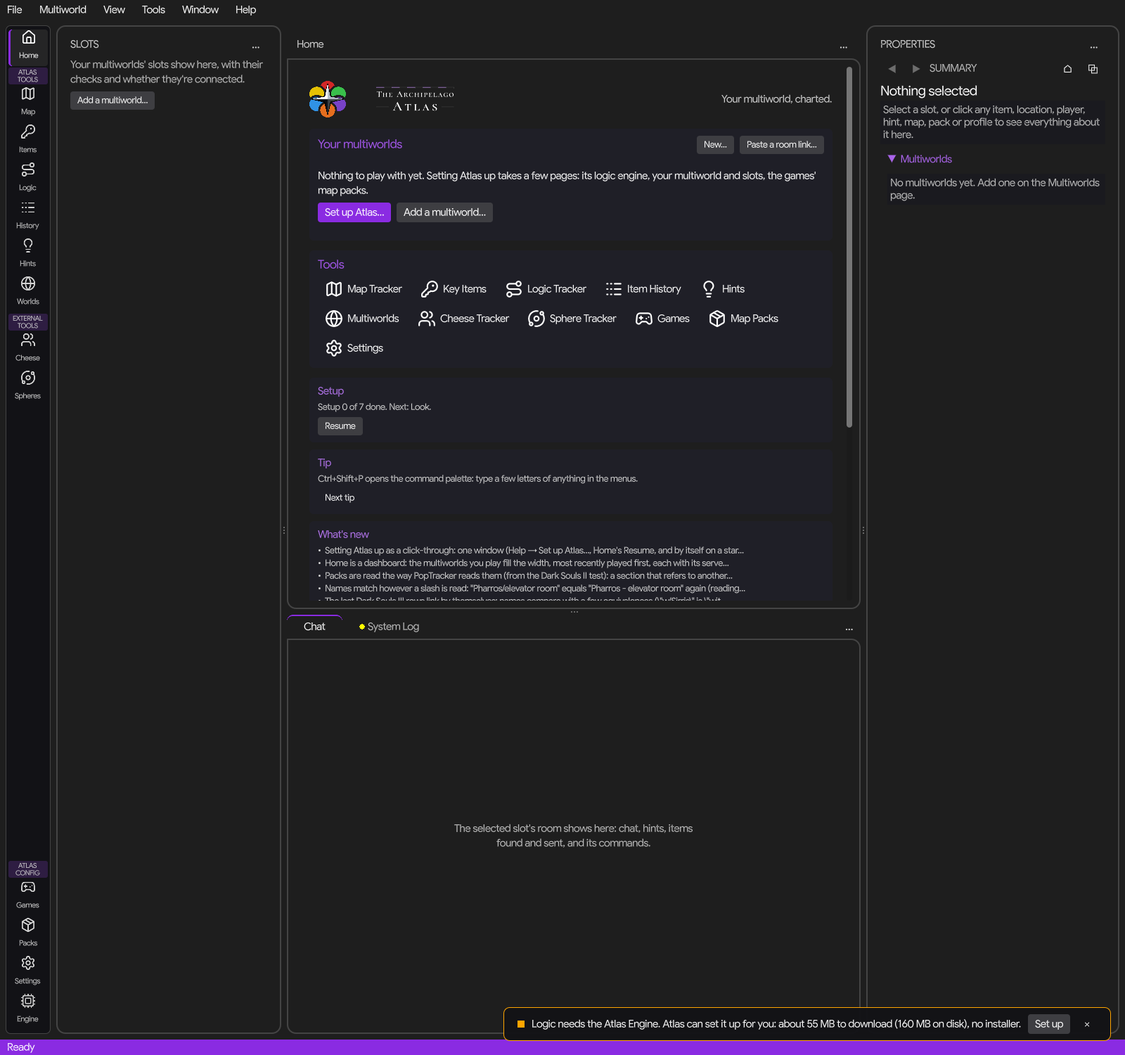
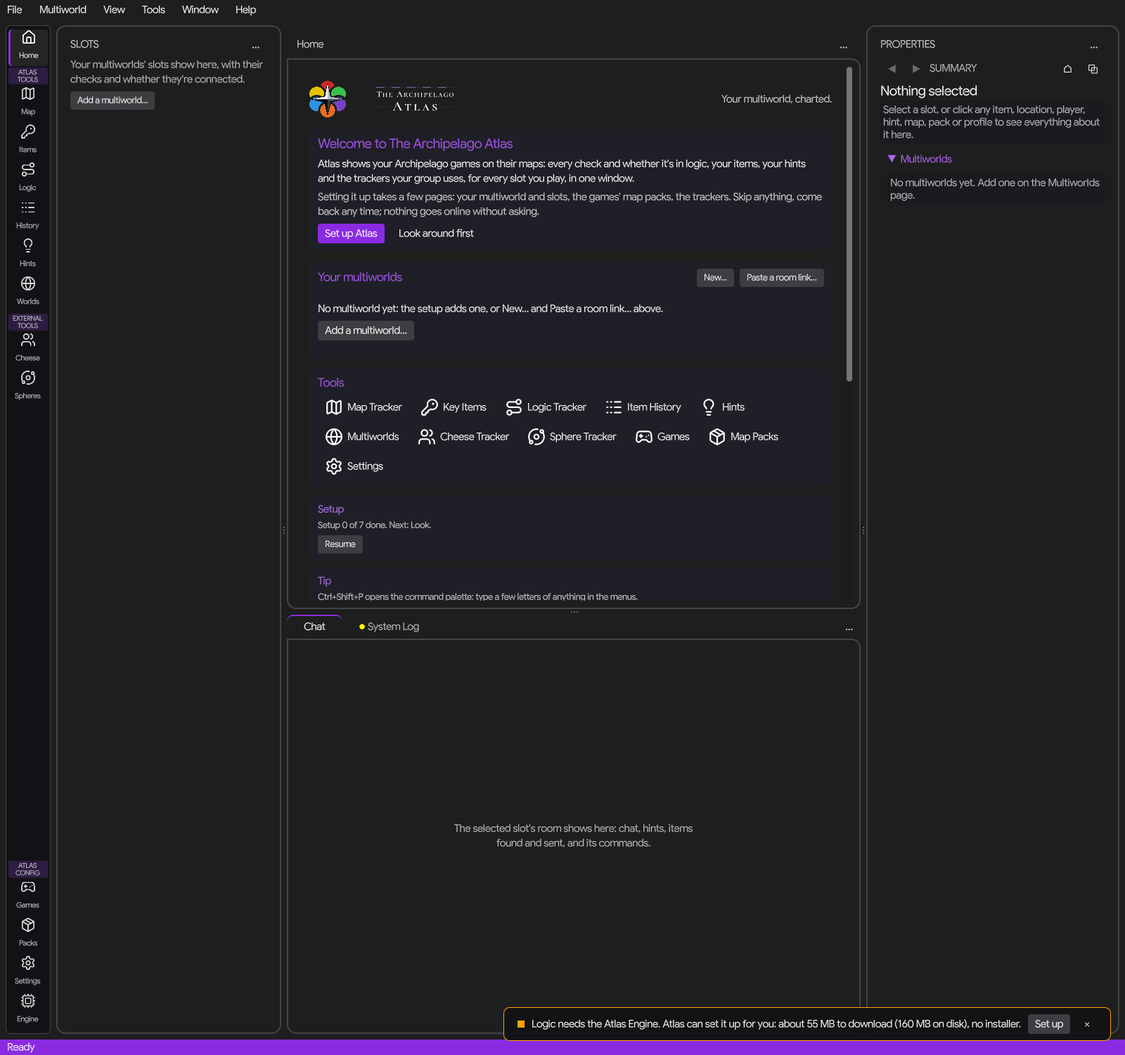
Home greets a first start; the setup opens when asked
The owner on the beta from 1a30514: Atlas opened with the setup
window covering the whole window, on its Look page; it didn't feel
welcoming. Their answers: Home greets, the setup on a press; a first
start begins on Welcome.

- Nothing pops up at startup: the setup window no longer opens by
  itself (ShouldOpenSetupAtStartup, AppSettings.SetupWizardAuto and
  the Welcome page's "Don't open this by itself again" are gone).
- Home's welcome card, across the top while the setup isn't finished:
  what Atlas does, how the setup goes, Set up Atlas and Look around
  first (puts the card away, AppSettings.WelcomeDismissed; the setup
  line keeps Resume). The multiworlds card offers Add a multiworld…,
  and Set up Atlas… once the welcome card is away.
- The setup window begins on Welcome while nothing is set up
  (SetupSteps.Untouched: no page passed, none skipped), else at the
  first step left.
- UI scenarios "Home" (the card, no window by itself, Look around
  first) and "Setup window" (Resume on a fresh folder begins on
  Welcome); Home's pictures and README's screenshot re-taken.

diff --git a/AP_Atlas_Source/Scripts/MainTrackerWindow.UiTest.cs b/AP_Atlas_Source/Scripts/MainTrackerWindow.UiTest.cs
@@ -1561,21 +1561,29 @@ public partial class MainTrackerWindow
         UiTestExpect(noBlurb.Count == 0, $"tools without a line: {string.Join(", ", noBlurb)}");
         UiTestExpect(home.Links.Count > 0 && home.Links.All(l => l.Url.StartsWith("https://", StringComparison.Ordinal)) && home.Links.Any(l => l.Url == "https://discord.gg/8Z65BR2"),
             "a link isn't https, or the Discord one is missing");
-        // A first start: no multiworlds, so the card shows the "Set up Atlas" block with its two buttons, and the setup line counts
-        // nothing done (the engine's step follows the engine) with Resume beside it.
+        // A first start: Home greets it with the welcome card (nothing pops up), the multiworlds card offers Add a multiworld…,
+        // and the setup line counts nothing done (the engine's step follows the engine) with Resume beside it.
         var steps = SetupSteps;
-        UiTestExpect(home.RecentProfileIds.Count == 0 && home.SetUpButton != null && home.AddMultiworldButton != null, "a first start doesn't show the Set up Atlas block");
+        UiTestExpect(home.WelcomeShown && home.WelcomeSetUpButton.Visible && home.RecentProfileIds.Count == 0 && home.SetUpButton == null && home.AddMultiworldButton != null,
+            "a first start isn't greeted by the welcome card, or the setup's button shows twice");
+        UiTestExpect(!GetChildren().OfType<AP_Atlas.UI.SetupWizard>().Any(w => !w.IsQueuedForDeletion()), "the setup window opened by itself");
         UiTestExpect(steps.Done(AP_Atlas.UI.SetupSteps.Engine) == AP_Atlas.Core.EngineSetup.AtlasEngine.Current.CanLaunch
             && AP_Atlas.UI.SetupSteps.All.Where(s => s != AP_Atlas.UI.SetupSteps.Engine).All(s => !steps.Done(s) && !steps.Skipped(s)),
             $"steps done before anything happened: {string.Join(", ", AP_Atlas.UI.SetupSteps.All.Where(steps.Settled).Select(s => s.Id))}");
         UiTestExpect(home.SetupLine.StartsWith("Setup ", StringComparison.Ordinal) && home.SetupLine.Contains($" of {steps.Total} done") && home.ResumeButton.Visible, $"the setup line reads \"{home.SetupLine}\"");
-        // Set up Atlas… opens the setup window from its Welcome page, on Home; closing it leaves Home as it was.
-        home.SetUpButton!.EmitSignal(BaseButton.SignalName.Pressed);
+        // Set up Atlas opens the setup window on its Welcome page while nothing is set up, on Home; closing it leaves Home as it was.
+        home.WelcomeSetUpButton.EmitSignal(BaseButton.SignalName.Pressed);
         var wizard = await UiTestWaitForAsync(() => GetChildren().OfType<AP_Atlas.UI.SetupWizard>().FirstOrDefault(w => w.Visible && !w.IsQueuedForDeletion()), "the setup window from Home");
         UiTestExpect(wizard.CurrentPageId == "welcome" && ShownContent() == home, $"Set up Atlas… opened the window on {wizard.CurrentPageId}, or left Home");
         wizard.EmitSignal(Window.SignalName.CloseRequested);
         await UiTestWaitAsync(0.2);
         UiTestExpect(!IsInstanceValid(wizard) || wizard.IsQueuedForDeletion(), "closing the setup window didn't free it");
+        // Look around first puts the welcome card away (remembered); the multiworlds card offers Set up Atlas… then.
+        home.LookAroundButton.EmitSignal(BaseButton.SignalName.Pressed);
+        UiTestExpect(!home.WelcomeShown && _appSettings.WelcomeDismissed && home.SetUpButton != null && home.ResumeButton.Visible,
+            "Look around first didn't put the welcome card away, or nothing offers the setup afterwards");
+        _appSettings.WelcomeDismissed = false;
+        home.Refresh();
         // The block's "Add a multiworld…" takes the user to the Multiworlds page with the new one selected, its name ready to
         // type; a second Add selects it again instead of adding another.
         int beforeAdd = _profiles.Count;
@@ -1695,7 +1703,7 @@ public partial class MainTrackerWindow
         var host = (AP_Atlas.UI.IPropertiesHost)this;
         const string roomId = "AbCdEfGhIjKlMnOpQrStUw"; // a base64 UUID, as archipelago.gg names rooms
         string themeBefore = _appSettings.Theme;
-        bool dailyBefore = _appSettings.UpdateCheckDaily, offeredBefore = _appSettings.UpdateOffered, autoBefore = _appSettings.SetupWizardAuto;
+        bool dailyBefore = _appSettings.UpdateCheckDaily, offeredBefore = _appSettings.UpdateOffered;
         var pagesBefore = _appSettings.SetupPagesDone.ToList();
         var skippedBefore = _appSettings.SkippedHomeSteps.ToList();
         string packs = AP_Atlas.Core.PopTracker.PopTrackerPackLoader.GetPacksDirectory();
@@ -1743,7 +1751,6 @@ public partial class MainTrackerWindow
         AP_Atlas.Core.Permissions.ResetSessionForTests();
         _appSettings.SetupPagesDone.Clear();
         _appSettings.SkippedHomeSteps.Clear();
-        _appSettings.SetupWizardAuto = true;
         AP_Atlas.UI.SetupWizard? Wizard() => GetChildren().OfType<AP_Atlas.UI.SetupWizard>().FirstOrDefault(w => !w.IsQueuedForDeletion());
         // Nothing opens on top of the setup window: no other window of the main window's, and none of the root's beyond those there now.
         var rootWindowsBefore = GetTree().Root.GetChildren().OfType<Window>().ToList();
@@ -1755,19 +1762,12 @@ public partial class MainTrackerWindow
         }
         try
         {
-            UiTestExpect(!AtlasEngine.Current.CanLaunch && ShouldOpenSetupAtStartup, "a fresh folder without the engine wouldn't open the setup by itself");
             host.ShowTool(AP_Atlas.UI.Tool.Home);
             var wizard = OpenSetupWizard(resume: true);
             await UiTestWaitAsync(0.3);
-            // Resume on a fresh folder is the first step: Look. Back is the Welcome page; "Don't open this by itself again" is kept.
-            UiTestExpect(wizard.CurrentPageId == AP_Atlas.UI.SetupSteps.Look.Id && !wizard.Exclusive, $"Resume opened on {wizard.CurrentPageId}, or the window is exclusive");
-            wizard.BackButton.EmitSignal(BaseButton.SignalName.Pressed);
-            UiTestExpect(wizard.CurrentPageId == "welcome" && !wizard.BackButton.Visible && !wizard.SkipButton.Visible && wizard.NextButton.Text == "Start", "the Welcome page isn't the first, or has Back or Skip");
-            var autoBox = (CheckBox)wizard.FindChild("AutoOpenBox", true, false);
-            autoBox.ButtonPressed = true;
-            UiTestExpect(!_appSettings.SetupWizardAuto && !ShouldOpenSetupAtStartup, "the Welcome tick didn't stop the window opening by itself");
-            autoBox.ButtonPressed = false;
-            UiTestExpect(_appSettings.SetupWizardAuto, "unticking didn't bring the automatic opening back");
+            // Resume while nothing is set up begins on the Welcome page: no Back or Skip there, and Start leads on.
+            UiTestExpect(wizard.CurrentPageId == "welcome" && !wizard.Exclusive && !wizard.BackButton.Visible && !wizard.SkipButton.Visible && wizard.NextButton.Text == "Start",
+                $"Resume on a fresh folder opened on {wizard.CurrentPageId}, or the Welcome page has Back or Skip, or the window is exclusive");
             await wizard.NextForTestsAsync();
             // Look: the theme applies as chosen; Next marks the page done.
             UiTestExpect(wizard.CurrentPageId == AP_Atlas.UI.SetupSteps.Look.Id && wizard.SkipButton.Visible, "Start didn't lead to Look");
@@ -1895,7 +1895,6 @@ public partial class MainTrackerWindow
             AP_Atlas.Core.Permissions.ResetSessionForTests();
             _appSettings.UpdateCheckDaily = dailyBefore;
             _appSettings.UpdateOffered = offeredBefore;
-            _appSettings.SetupWizardAuto = autoBefore;
             _appSettings.SetupPagesDone = pagesBefore;
             _appSettings.SkippedHomeSteps = skippedBefore;
             _appSettings.PreferredPacks.Remove("Test Game");

diff --git a/AP_Atlas_Source/Scripts/UI/HomePage.cs b/AP_Atlas_Source/Scripts/UI/HomePage.cs
@@ -31,6 +31,9 @@ namespace AP_Atlas.UI
             public SetupSteps Steps { get; init; } = new SetupSteps(new SetupSteps.Hooks());
             /// <summary>Opens the setup window: at the first step left (true), or from its Welcome page.</summary>
             public Action<bool> OpenSetup { get; init; } = _ => { };
+            /// <summary>Whether the welcome card was put away ("Look around first"), and putting it away (remembered).</summary>
+            public Func<bool> WelcomeDismissed { get; init; } = () => false;
+            public Action DismissWelcome { get; init; } = () => { };
             /// <summary>Takes the user to the Multiworlds page with a new multiworld selected (the first start's second button).</summary>
             public Action AddMultiworld { get; init; } = () => { };
             /// <summary>New…: a new multiworld in a small dialog here.</summary>
@@ -101,6 +104,8 @@ namespace AP_Atlas.UI
         private readonly Button _whatsNewButton;
         private Button? _addMultiworldButton;
         private Button? _setUpButton;
+        private readonly PanelContainer _welcomeCard;
+        private readonly Button _welcomeSetUp, _lookAround;
         private readonly TextureRect _wordmark;
         private int _tipIndex = -1;
         private bool _twoColumns = true;
@@ -142,6 +147,33 @@ namespace AP_Atlas.UI
             tagline.HorizontalAlignment = HorizontalAlignment.Right;
             header.AddChild(tagline);
             body.AddChild(header);
+
+            // A first start is greeted here, nothing popping up: what Atlas does, and the setup a press away (or later).
+            _welcomeCard = Card(out var welcomeBox);
+            _welcomeCard.Name = "WelcomeCard";
+            welcomeBox.AddThemeConstantOverride("separation", 8);
+            welcomeBox.AddChild(Kit.Heading(_tr("Welcome to The Archipelago Atlas"), 1.3f));
+            var welcomeText = Kit.Text(_tr("Atlas shows your Archipelago games on their maps: every check and whether it's in logic, your items, your hints and the trackers your group uses, for every slot you play, in one window."));
+            welcomeText.AutowrapMode = TextServer.AutowrapMode.WordSmart;
+            welcomeText.SizeFlagsHorizontal = SizeFlags.ExpandFill;
+            welcomeBox.AddChild(welcomeText);
+            var welcomeMore = Kit.Text(_tr("Setting it up takes a few pages: your multiworld and slots, the games' map packs, the trackers. Skip anything, come back any time; nothing goes online without asking."), AP_Atlas.Core.ThemeColors.TextMuted);
+            welcomeMore.AutowrapMode = TextServer.AutowrapMode.WordSmart;
+            welcomeMore.SizeFlagsHorizontal = SizeFlags.ExpandFill;
+            welcomeBox.AddChild(welcomeMore);
+            var welcomeButtons = new HBoxContainer();
+            welcomeButtons.AddThemeConstantOverride("separation", 10);
+            _welcomeSetUp = Kit.Button(_tr("Set up Atlas"), _tr("The setup window, page by page, from its Welcome page."), () => _hooks.OpenSetup(true));
+            _welcomeSetUp.ThemeTypeVariation = Kit.PrimaryButton;
+            welcomeButtons.AddChild(_welcomeSetUp);
+            _lookAround = Kit.Button(_tr("Look around first"), _tr("Puts this card away. The setup line on the right keeps Resume, and Help → Set up Atlas… opens it any time."), () =>
+            {
+                _hooks.DismissWelcome();
+                Refresh();
+            }, flat: true);
+            welcomeButtons.AddChild(_lookAround);
+            welcomeBox.AddChild(welcomeButtons);
+            body.AddChild(_welcomeCard);
 
             // Two columns: the multiworlds and the tools; the setup, a tip, what's new and the links beside them.
             _columns.Vertical = false;
@@ -337,7 +369,14 @@ namespace AP_Atlas.UI
         /// <summary>The right column's right edge, in the window (for the fit check).</summary>
         public float RightColumnRight => _rightColumn.GlobalPosition.X + _rightColumn.Size.X;
 
-        /// <summary>The first start's "Set up Atlas…" button (null while multiworlds exist).</summary>
+        /// <summary>Whether the welcome card shows (a setup not finished, and the card not put away).</summary>
+        public bool WelcomeShown => _welcomeCard.Visible;
+
+        /// <summary>The welcome card's "Set up Atlas" and "Look around first".</summary>
+        public Button WelcomeSetUpButton => _welcomeSetUp;
+        public Button LookAroundButton => _lookAround;
+
+        /// <summary>The multiworlds card's "Set up Atlas…" on a first start once the welcome card is put away (null otherwise).</summary>
         public Button? SetUpButton => _setUpButton;
 
         /// <summary>The first start's "Add a multiworld…" button (null while multiworlds exist).</summary>
@@ -387,6 +426,7 @@ namespace AP_Atlas.UI
             _setupLine.AddThemeColorOverride("font_color", steps.AllSettled ? AP_Atlas.Core.ThemeColors.Success : AP_Atlas.Core.ThemeColors.TextMuted);
             _resume.Visible = !steps.AllSettled;
             _reopenSetup.Visible = steps.AllSettled;
+            _welcomeCard.Visible = !steps.AllSettled && !_hooks.WelcomeDismissed();
             if (!AP_Atlas.Core.EngineSetup.AtlasEngine.SetupRunning) _setupProgress.Visible = false;
             RefreshRecents();
             RefreshWhatsNew();
@@ -435,15 +475,20 @@ namespace AP_Atlas.UI
                 var block = new VBoxContainer { SizeFlagsHorizontal = SizeFlags.ExpandFill };
                 block.AddThemeConstantOverride("separation", 8);
                 block.AddChild(new Control { CustomMinimumSize = new Vector2(0, 8) });
-                var welcome = Kit.Text(_tr("Nothing to play with yet. Setting Atlas up takes a few pages: its logic engine, your multiworld and slots, the games' map packs."));
+                var welcome = Kit.Text(_welcomeCard.Visible ? _tr("No multiworld yet: the setup adds one, or New… and Paste a room link… above.")
+                    : _tr("Nothing to play with yet. Setting Atlas up takes a few pages: your multiworld and slots, the games' map packs."));
                 welcome.AutowrapMode = TextServer.AutowrapMode.WordSmart;
                 welcome.SizeFlagsHorizontal = SizeFlags.ExpandFill;
                 block.AddChild(welcome);
                 var buttons = new HBoxContainer();
                 buttons.AddThemeConstantOverride("separation", 8);
-                _setUpButton = Kit.Button(_tr("Set up Atlas…"), _tr("The setup window, page by page."), () => _hooks.OpenSetup(false));
-                _setUpButton.ThemeTypeVariation = Kit.PrimaryButton;
-                buttons.AddChild(_setUpButton);
+                // The welcome card has the setup's button while it shows; once it's put away, this card offers it.
+                if (!_welcomeCard.Visible)
+                {
+                    _setUpButton = Kit.Button(_tr("Set up Atlas…"), _tr("The setup window, page by page."), () => _hooks.OpenSetup(true));
+                    _setUpButton.ThemeTypeVariation = Kit.PrimaryButton;
+                    buttons.AddChild(_setUpButton);
+                }
                 _addMultiworldButton = Kit.Button(_tr("Add a multiworld…"), _tr("Straight to the Multiworlds page, for a multiworld typed by hand."), () => _hooks.AddMultiworld());
                 buttons.AddChild(_addMultiworldButton);
                 block.AddChild(buttons);

diff --git a/AP_Atlas_Source/Scripts/UI/SetupWizard.cs b/AP_Atlas_Source/Scripts/UI/SetupWizard.cs
@@ -31,7 +31,6 @@ namespace AP_Atlas.UI
             public required AppSettings Settings { get; init; }
             public required SetupSteps Steps { get; init; }
             /// <summary>The Welcome page's "Don't open this by itself again".</summary>
-            public required Action<bool> SetAutoOpen { get; init; }
             // The look.
             public required Action<string> ApplyTheme { get; init; }
             public required Action<bool> ApplyColourBlindSafe { get; init; }
@@ -120,7 +119,8 @@ namespace AP_Atlas.UI
             parent.AddChild(wizard);
             WindowFit.Pop(wizard, PageWidth + RailWidth + 60, 700);
             int start = 0;
-            if (resume)
+            // Resume goes to the first step left; while nothing is set up yet, that's the Welcome page.
+            if (resume && !hooks.Steps.Untouched)
             {
                 var next = hooks.Steps.Next;
                 start = next == null ? wizard._pages.Count - 1 : wizard._pages.FindIndex(p => p.Step == next);
@@ -450,11 +450,7 @@ namespace AP_Atlas.UI
             box.AddChild(header);
             box.AddChild(Wrapped(_tr("Atlas shows your Archipelago multiworlds on their maps: every check and whether it's in logic, your items, your hints and the trackers your group uses, all in one window. A few pages set it up; each says what it does before anything happens.")));
             box.AddChild(Wrapped(_tr("Atlas keeps everything in its own folder, never looks elsewhere on your PC, and goes online only for what you allow here or later. Each permission is a row on its page: Allow once, Always allow, or not now. You can take any answer back in Settings → Privacy & permissions."), muted: true));
-            box.AddChild(Wrapped(_tr("Skip this step is always there, and Help → Set up Atlas… brings this window back at the first step left."), muted: true));
-            var auto = new CheckBox { Text = _tr("Don't open this by itself again"), ButtonPressed = !_hooks.Settings.SetupWizardAuto, TooltipText = _tr("Atlas opens this on a start without its engine; ticked, it waits to be asked (Home's setup line, or Help → Set up Atlas…).") };
-            auto.Name = "AutoOpenBox";
-            auto.Toggled += on => _hooks.SetAutoOpen(!on);
-            box.AddChild(auto);
+            box.AddChild(Wrapped(_tr("Skip this step is always there, and Help → Set up Atlas… or Home's Resume brings this window back at the first step left."), muted: true));
             return box;
         }
 

diff --git a/AP_Atlas_Source/Scripts/MainTrackerWindow.Setup.cs b/AP_Atlas_Source/Scripts/MainTrackerWindow.Setup.cs
@@ -8,8 +8,6 @@ using Godot;
 public partial class MainTrackerWindow
 {
     private AP_Atlas.UI.SetupSteps? _setupSteps;
-    // Decided before the engine's startup notice: when the setup window will open, the "Logic needs the Atlas Engine" card stays quiet.
-    private bool _setupOpensAtStartup;
 
     /// <summary>The setup steps Home's line and the setup window share.</summary>
     private AP_Atlas.UI.SetupSteps SetupSteps => _setupSteps ??= new AP_Atlas.UI.SetupSteps(new AP_Atlas.UI.SetupSteps.Hooks
@@ -35,9 +33,6 @@ public partial class MainTrackerWindow
         },
     });
 
-    /// <summary>Whether the setup window opens by itself on this start: the first start, or a start without the engine, unless the user turned that off.</summary>
-    private bool ShouldOpenSetupAtStartup => _appSettings.SetupWizardAuto && (_appSettings.Fresh || !AP_Atlas.Core.EngineSetup.AtlasEngine.Current.CanLaunch);
-
     /// <summary>Help → Set up Atlas…, Home's Resume and the first start: the setup window, at the first step left (resume) or from its Welcome page.</summary>
     internal AP_Atlas.UI.SetupWizard OpenSetupWizard(bool resume) => AP_Atlas.UI.SetupWizard.Open(this, SetupHooks(), resume);
 
@@ -49,11 +44,6 @@ public partial class MainTrackerWindow
             Tr = text => Tr(text),
             Settings = _appSettings,
             Steps = SetupSteps,
-            SetAutoOpen = auto =>
-            {
-                _appSettings.SetupWizardAuto = auto;
-                DataManager.SaveSettingsSoon(_appSettings);
-            },
             ApplyTheme = ApplyTheme,
             ApplyColourBlindSafe = ApplyColourBlindSafe,
             SetZoom = SetZoom,

diff --git a/AP_Atlas_Source/Scripts/MainTrackerWindow.cs b/AP_Atlas_Source/Scripts/MainTrackerWindow.cs
@@ -481,7 +481,6 @@ public partial class MainTrackerWindow : Control, AP_Atlas.UI.IPropertiesHost
         _gamesPage.SidebarContent.Visible = false;
         _midLeftVBox.AddChild(_gamesPage.SidebarContent);
         _toolViews[AP_Atlas.UI.Tool.Games] = (_gamesPage, _gamesPage.SidebarContent, "Games", _gamesPage.OnShown);
-        _setupOpensAtStartup = !UiTestRequested && !VisualCheckRequested && !FirstRunSelfCheck && ShouldOpenSetupAtStartup;
         ReportEngineAtStartup();
         OfferToDeletePlainTextPasswordCopies();
         var statusTimer = new Godot.Timer { WaitTime = 0.5f, Autostart = true };
@@ -505,8 +504,6 @@ public partial class MainTrackerWindow : Control, AP_Atlas.UI.IPropertiesHost
         }
         StartUpdateChecks();
         StartCrashReports();
-        // A start without the engine: the setup window, at the first step left (the test modes drive it themselves).
-        if (_setupOpensAtStartup) AP_Atlas.UI.Ui.Defer(this, () => OpenSetupWizard(resume: true));
         if (VisualCheckRequested) AP_Atlas.UI.Ui.Defer(this, RunVisualCheck);
         if (UiTestRequested) AP_Atlas.UI.Ui.Defer(this, RunUiTest);
     }

diff --git a/AP_Atlas_Source/Scripts/Core/DataManager.cs b/AP_Atlas_Source/Scripts/Core/DataManager.cs
@@ -112,8 +112,8 @@ public class AppSettings
     public List<string> SkippedHomeSteps { get; set; } = new List<string>();
     /// <summary>The setup window's pages the user passed with Next (page ids), for the steps Atlas's state alone can't tell (the look, the reports page).</summary>
     public List<string> SetupPagesDone { get; set; } = new List<string>();
-    /// <summary>Whether the setup window opens by itself on a start without the engine (off: the Welcome page's "Don't open this by itself again").</summary>
-    public bool SetupWizardAuto { get; set; } = true;
+    /// <summary>Whether Home's welcome card was put away ("Look around first"); Home's setup line keeps Resume.</summary>
+    public bool WelcomeDismissed { get; set; }
     public int LastFlagColor { get; set; } = 3;
 
     // Race mode: when restrictions apply, and whether they hide all logic or only the "why" explanations.

diff --git a/AP_Atlas_Source/Scripts/MainTrackerWindow.Home.cs b/AP_Atlas_Source/Scripts/MainTrackerWindow.Home.cs
@@ -20,6 +20,12 @@ public partial class MainTrackerWindow
             ContentFontSize = () => _appSettings.ContentFontSize,
             Steps = SetupSteps,
             OpenSetup = resume => OpenSetupWizard(resume),
+            WelcomeDismissed = () => _appSettings.WelcomeDismissed,
+            DismissWelcome = () =>
+            {
+                _appSettings.WelcomeDismissed = true;
+                DataManager.SaveSettingsSoon(_appSettings);
+            },
             AddMultiworld = OnAddProfilePressed,
             QuickAddMultiworld = () => AP_Atlas.UI.QuickSetup.NewMultiworld(this, QuickHooks()),
             AddFromRoomLink = AddProfileFromRoomLink,

diff --git a/AP_Atlas_Source/Scripts/MainTrackerWindow.VisualCheck.cs b/AP_Atlas_Source/Scripts/MainTrackerWindow.VisualCheck.cs
@@ -93,7 +93,7 @@ public partial class MainTrackerWindow
         // The guide as the Help window renders it (the documents built in, through Markdown).
         await VisualCheckWindowAsync("help_guide", () => OpenHelp(null), 1.0);
         await VisualCheckWindowAsync("about", ShowAbout, 1.0);
-        // The setup window on its Welcome page (it opens by itself on a first start outside the checks).
+        // The setup window on its Welcome page (Home's welcome card opens it there on a first start).
         await VisualCheckWindowAsync("setup_welcome", () => OpenSetupWizard(resume: false), 1.0);
         OpenPrivacy();
         await VisualCheckWaitAsync(0.5);

diff --git a/AP_Atlas_Source/Scripts/MainTrackerWindow.Notices.cs b/AP_Atlas_Source/Scripts/MainTrackerWindow.Notices.cs
@@ -123,7 +123,6 @@ public partial class MainTrackerWindow : Control, AP_Atlas.UI.IPropertiesHost
             return;
         }
         LogToSystem($"Logic engine: {problem} Settings → Atlas Engine sets it up.", "orange");
-        if (_setupOpensAtStartup) return; // the setup window says it, with the button to do it
         AP_Atlas.UI.Ui.Defer(this, () => ShowToast("Logic needs the Atlas Engine. Atlas can set it up for you: about 55 MB to download (160 MB on disk), no installer.", AP_Atlas.Core.ThemeColors.Warning, "Set up", OpenEngineSetup));
     }
     private void ShowToast(string message, Godot.Color color) => ShowToast(message, color, null, null);

diff --git a/AP_Atlas_Source/Scripts/UI/SetupSteps.cs b/AP_Atlas_Source/Scripts/UI/SetupSteps.cs
@@ -80,6 +80,9 @@ namespace AP_Atlas.UI
 
         public bool AllSettled => Next == null;
 
+        /// <summary>Nothing set up by the user yet: no page passed, none skipped (the setup window then begins on Welcome).</summary>
+        public bool Untouched => _hooks.PagesDone().Count == 0 && All.All(step => !Skipped(step));
+
         /// <summary>Home's one line about the setup: how far it is and what's next, or that it's done.</summary>
         public string Line(Func<string, string> tr)
         {

diff --git a/CHANGELOG.md b/CHANGELOG.md
@@ -11,7 +11,7 @@ Development toward the first public beta, 0.1.0.
 - **The Atlas Engine ships with Atlas** (the owner's decision after the Dark Souls II test: each new folder set the engine up again): Python 3.12.10 with Archipelago's packages, Archipelago 0.6.7's core and Universal Tracker v0.3.4 are in the `engine` folder beside the program (about 45 MB on disk), got ready on the first start by a health check (nothing downloaded or asked), and updated with Atlas. **Game worlds come on demand:** a game's world is unpacked from Archipelago's own release (downloaded once, about 22 MB, checked against its hash, after the engine's permission) the first time a slot of that game needs it, with the worlds it imports; a slot waiting for it says so, with "Get the game's world…". An installed apworld for a game takes precedence. Only the worlds in use load, so the engine starts faster and takes less memory. Everything the engine adds lives in the data folder (`engine/ap`, `engine/site-packages`, `engine/pycache`); the shipped core is only read. The release build makes the core with Atlas's own setup and checks it on a fresh folder (`Tools/build_engine.ps1`); the notices and credits name every component and package it ships, with their licenses beside them.
 - **Which version works with my map pack?** (from the Dark Souls II test: the 0.5.5 full release has no docs and doesn't fit the map tracker; the 0.6.0 pre-release names it in its own guide and fits): a game's page downloads its newest four releases into the game's folder when asked (once per game, with their size; nothing is installed), reads what each one's setup guide and manifest say, and with the Atlas Engine loads each in a throwaway process to measure the installed map pack against its checks. The versions table gains **Works here** (what works with each release; the ones that can't work here greyed with the reason), the installed version shows as a card of its facts (✓/✗ for the pack's fit, the tracker its guide names, the Archipelago it needs, the multiworlds using it) with **Get from this release…** and **Switch to** Atlas's pick, and Install picks the newest release the pack fits, else the newest whose guide names a tracker (a pre-release too), else the newest full release. The solo test installs that pick after looking, and its report says which and why.
 - **A pack that doesn't fit the seed says so on the map:** when fewer than three in four of its pins link to the seed's checks, a note offers **Find a pack release that fits this seed**: the pack's project's newest releases measured against the seed, the one kept made the game's pack, and the game's slots switch to it.
-- **Setting Atlas up as a click-through:** one window (Help → Set up Atlas…, Home's Resume, and by itself on a start without the engine, unless its Welcome page's "Don't open this by itself again" is ticked) with the pages Welcome, Look, The Atlas Engine, Your multiworld, Your slots, Games and map packs, Trackers (optional), Reports and updates and Ready, a list of them on the left with a tick for each that's done, Back, Skip this step and Next. Nothing opens on top of it: each permission (the engine's download, a room's status page, GitHub lookups) is a row on the page with Allow once / Always allow / not now, trusting a project is the tick beside its install, and the engine installs in the background with its progress in the list while the next pages are filled in (the Ready page's Finish waits for it). A room link fills in the server and the players to tick; a slot's game or a YAML lets the games page install the apworld and the map pack its setup guide recommends, or one found on GitHub from the page; Finish connects the slots ticked. Resume opens at the first step left.
+- **Setting Atlas up as a click-through:** one window (Home's welcome card, its Resume, and Help → Set up Atlas…; it begins on Welcome while nothing is set up) with the pages Welcome, Look, The Atlas Engine, Your multiworld, Your slots, Games and map packs, Trackers (optional), Reports and updates and Ready, a list of them on the left with a tick for each that's done, Back, Skip this step and Next. Nothing opens on top of it: each permission (the engine's download, a room's status page, GitHub lookups) is a row on the page with Allow once / Always allow / not now, trusting a project is the tick beside its install, and the engine installs in the background with its progress in the list while the next pages are filled in (the Ready page's Finish waits for it). A room link fills in the server and the players to tick; a slot's game or a YAML lets the games page install the apworld and the map pack its setup guide recommends, or one found on GitHub from the page; Finish connects the slots ticked. Resume opens at the first step left.
 - **Home is a dashboard:** the multiworlds you play fill the width, most recently played first, each with its server, slots and games, a "connected" chip, Open and Connect, with New… and Paste a room link… above them; the tools as a row of buttons; and a column beside with the setup's one line ("Setup 4 of 7 done. Next: …" with Resume; "You're set up." once every step is done or skipped), a tip, what's new and the links. A first start shows one "Set up Atlas…" block in place of the list. The tagline is "Your multiworld, charted."; the getting-started checklist and the feature cards are gone (About keeps what sets Atlas apart).
 - **Packs are read the way PopTracker reads them (from the Dark Souls II test):** a section that refers to another (`"ref"`, the same check on a region map and the overworld; twenty of the forty corpus packs use it) shows that section's check, follows the user's fixes to it, and is no longer paired, counted or reported on its own; one whose target isn't in the pack stays an ordinary section and the author's report names it. A mapping the pack's scripts build as they run is read from the tables they leave (Dark Souls II numbers its list of paths in a loop; Symphony of the Night adds its relics in one), only when the files alone leave ids unknown. Mapping ids written in hexadecimal (`[0x69696A]`) or as arithmetic on a number the file sets (`[BASE + 12]`) are read without running anything; the table read is the one named for the mapping, not a helper before it. A section that hosts an item without an item_count holds no check, as PopTracker counts it (A Link to the Past's entrance and boss toggles, Super Metroid's doors), so it's no longer paired, counted or reported, unless its name is a location nothing else shows; a location the mapping sends to an item code shows in the section hosting that item (Super Mario 64's pack maps every location that way). Measured on the corpus with the games' real names: Dark Souls II links 3004 of its 3036 checks (2963 before) and places all its locations, both Dark Souls III fork releases link every check, Final Fantasy Mystic Quest 406 of 407 (265 before), Super Mario 64 every one of its 4105 (none before), Super Metroid 101 of its 102 checks and A Link to the Past 316 of 364 (the rest of their sections are toggles), and no pack places fewer locations; HITMAN's 6003 load issues are gone (it reads in 1.8 s instead of 9.3), as are A Link Between Worlds' 432, Castlevania: Circle of the Moon's 136, Spelunker's 158, Clair Obscur's 87 and Donkey Kong 64's 56; Wario Land 4's 356 are down to 5.
 - **Names match however a slash is read:** "Pharros/elevator room" equals "Pharros - elevator room" again (reading a slash as "or" had lost those exact matches), and numbered copies link by their number when only one of the game's locations has it ("Fading Soul 2" with "Fading Soul - boss arena #2", "Fading Soul 1" with the unnumbered first).
@@ -168,7 +168,7 @@ Development toward the first public beta, 0.1.0.
   - The UI test checks that every command is in a menu with its key shown, that the keys and a rebind work at once, and that the menu bar never runs a stale key itself.
 
 ### Changed
-- **Run from source**, the downloaded engine is laid out the same way: Archipelago without its game worlds (its zip kept for them), and what an older engine kept in Archipelago's folder (installed apworlds, Players, host.yaml) moved to `engine/ap`. The setup window opens by itself on the first start as well as whenever the engine isn't set up.
+- **Run from source**, the downloaded engine is laid out the same way: Archipelago without its game worlds (its zip kept for them), and what an older engine kept in Archipelago's folder (installed apworlds, Players, host.yaml) moved to `engine/ap`. Nothing pops up on a first start (the owner: the setup window covering everything didn't feel welcoming): Home greets it with a welcome card, **Set up Atlas** and **Look around first**.
 - **Tables lay out only the rows on screen.** Godot lays out every row a table holds, so Item History with 5,000 items took half a second to show and Hints with 2,000 hints a fifth of one. Every table now holds as many rows as fit and has a scroll bar of its own for the rest; the wheel and the keys (arrows, Page Up and Down, Home, End) move through the rows. A table of thousands shows as fast as one of ten.
 - **Item History is a table like the others:** a click on a column's title sorts it (Order newest or oldest first, Item alphabetically, in place of the sort list), it has the Columns and Export menus, and its search also narrows the items not yet collected.
 - **The map is a plain canvas now,** shared with the Pack Doctor's editor: the wheel zooms around the cursor, any mouse button drags, Fit shows the whole map, pins are real controls (focus and screen readers reach them, with a tooltip saying their state), and a legend under the display options says what the colours mean. The view is remembered per map as before, and nothing of the map runs every frame.

diff --git a/docs/GUIDE.md b/docs/GUIDE.md
@@ -8,7 +8,7 @@ Atlas is an unofficial community tool: it isn't affiliated with or endorsed by t
 
 Atlas opens on Home (Ctrl+1) unless Settings → Behaviour → Open on says otherwise. Its header carries Atlas's icon and wordmark, which take the theme's colours and your accent. It has:
 
-- **Your multiworlds:** the ones you play, most recently played first, each with its server, slots and games, a "connected" chip while any of its slots is, **Open** (the Multiworlds page with it selected) and **Connect**, which connects every slot of it in turn. **New…** makes a multiworld in a small window right here (its name, server and password, and its slots, typed or from a YAML, which names a slot and its game); **Paste a room link…** starts one on the Multiworlds page with the room link box ready. On a first start, with no multiworld yet, this card offers **Set up Atlas…** (see Setting up Atlas below) and **Add a multiworld…**.
+- **Your multiworlds:** the ones you play, most recently played first, each with its server, slots and games, a "connected" chip while any of its slots is, **Open** (the Multiworlds page with it selected) and **Connect**, which connects every slot of it in turn. **New…** makes a multiworld in a small window right here (its name, server and password, and its slots, typed or from a YAML, which names a slot and its game); **Paste a room link…** starts one on the Multiworlds page with the room link box ready. On a first start, with no multiworld yet, this card offers **Add a multiworld…** (and **Set up Atlas…** once the welcome card above is put away; see Setting up Atlas below).
 - **Tools:** a button per tool.
 - **Setup:** one line about the setup ("Setup 4 of 7 done. Next: Games and map packs.") with **Resume**, which opens the setup window at that step; once every step is done or skipped it says "You're set up." with Open setup for changing anything later.
 - A tip, which changes each time Home shows.
@@ -17,7 +17,7 @@ Atlas opens on Home (Ctrl+1) unless Settings → Behaviour → Open on says othe
 
 ### Setting up Atlas
 
-The setup window walks Atlas's setup through page by page: Welcome, Look, The Atlas Engine, Your multiworld, Your slots, Games and map packs, Trackers (optional), Reports and updates, Ready. It opens by itself on a start without the engine (the Welcome page's "Don't open this by itself again" stops that), and from Home's setup line and Help → Set up Atlas… any time, at the first step left. Its rules:
+The setup window walks Atlas's setup through page by page: Welcome, Look, The Atlas Engine, Your multiworld, Your slots, Games and map packs, Trackers (optional), Reports and updates, Ready. Nothing pops up on a first start: Home greets it with a welcome card (what Atlas does, **Set up Atlas**, and **Look around first**, which puts the card away). Set up Atlas, Home's setup line (Resume) and Help → Set up Atlas… open the window at the first step left, on its Welcome page while nothing is set up yet. Its rules:
 
 - **Nothing opens on top of it.** A permission Atlas needs (downloading the engine, reading a room's status page, looking up apworld releases on GitHub) is a row on the page with Allow once, Always allow and a way to say not now; trusting a project is the tick beside its install; the one question it can't fold in, whether a Sphere Tracker room is the host's, opens on the window itself.
 - **Back keeps what you typed; Skip this step counts a step as done without doing it** (Home's line counts skipped steps as done; the Multiworlds, Games and Settings pages do each step by hand later).
